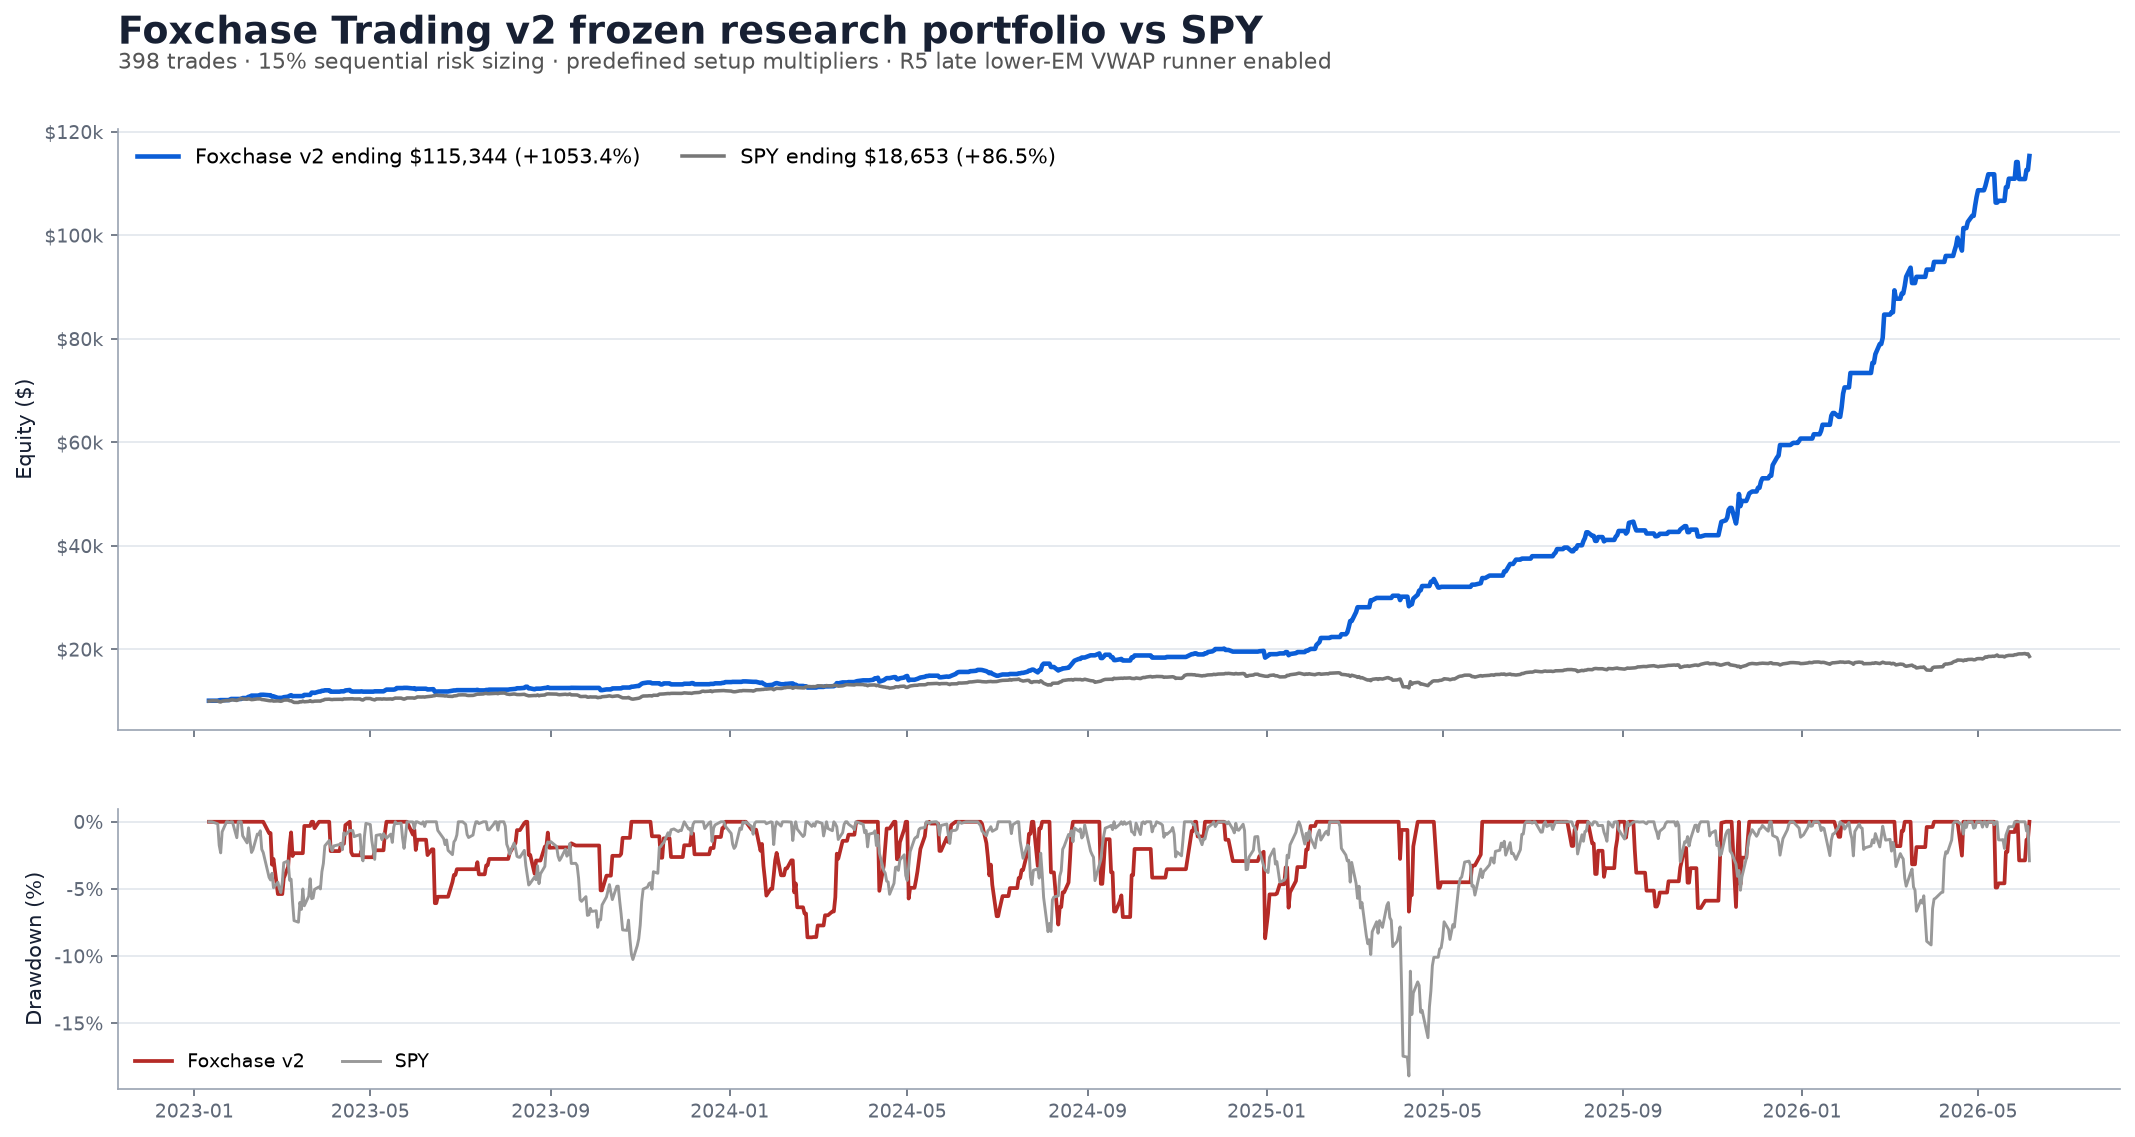
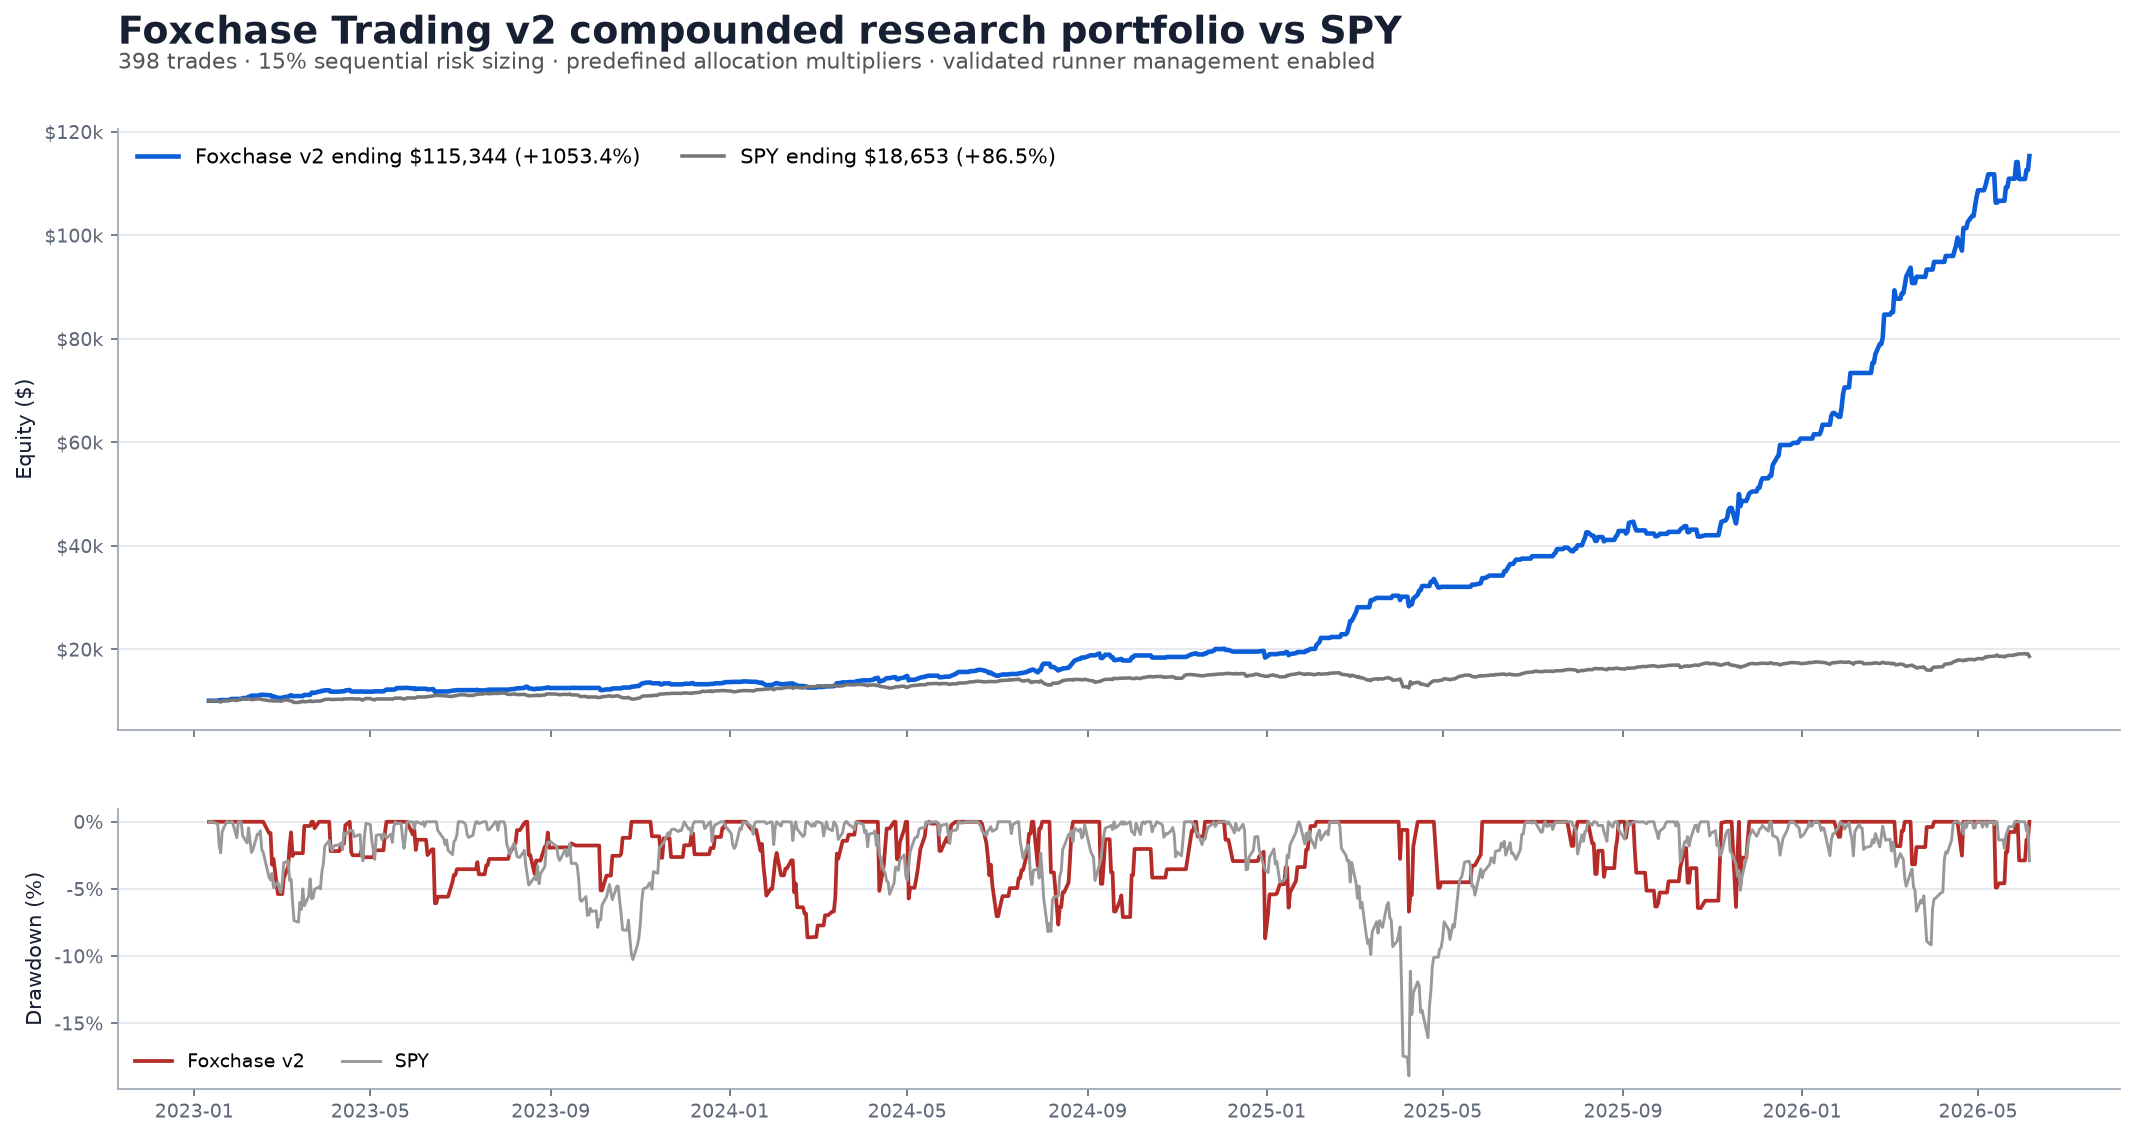
Restore research sizing toggle and simplify labels

Changed region(s): [[0.2473, 0.0, 0.6492, 0.0616]]

diff --git a/algo-pnl.html b/algo-pnl.html
@@ -589,16 +589,17 @@ function setTextIfExists(id, value) {
 
 
     <h2>Research Backtest</h2>
-    <div class="pnl-note"><strong>Foxchase v2 forward-validation baseline:</strong> The production ruleset is frozen at 398 historical trades. Under the validated 15% sequential sizing framework, the frozen portfolio produced hypothetical P&amp;L of +$105,344, CAGR of 105.38%, Sharpe ratio of 5.502, and maximum drawdown of -8.68%. These are research results, not live performance. Forward validation will measure unchanged rules against real signals, fills, slippage, and operational conditions.</div>
-    <div class="pnl-note"><strong>Research backtest, not live performance:</strong> This frozen v2 historical replay uses only information available at each decision time, $3-wide defined-risk spreads, one open position at a time, predefined scheduled macro-event exclusions, the validated 15% sequential target-risk framework, and predefined setup-specific sizing. Most setups use natural historical bid/ask execution; the R1 SPX/SPY expected-move-divergence sleeve uses synchronized Alpaca one-minute option trade-bar estimates with separate slippage stress testing because full historical bid/ask quotes were unavailable. Results are hypothetical and remain separate from the live-account performance shown above.</div>
-    <div class="pnl-note"><strong>Current R5 runner rule:</strong> The existing R5 late lower-EM bull-put entry is unchanged. Before 60% profit, its existing stop and management apply. Reaching 60% activates a runner; the runner exits on the first confirmed five-minute close below cumulative RTH VWAP, or under the existing EOD handling if no VWAP failure occurs. If valid five-minute/VWAP data is unavailable, the strategy reverts to existing R5 management and records a VWAP fallback. This is exit management, not a separate setup.</div>
-    <div class="pnl-note"><strong>Strategy status:</strong> Foxchase v2 is frozen for forward validation. Entries, filters, position sizing, stops, and thresholds will remain unchanged during this validation period. Historical trade records retain their original outcomes; the current research replay applies the forward ruleset to the same frozen signal membership. Any future research version must be documented separately and must not silently alter this baseline. Past and hypothetical performance do not guarantee future results. <strong>Last updated August 22, 2026.</strong></div>
-    <div class="research-metrics"><div class="research-card"><div class="research-label">Frozen v2 Sample</div><div class="research-value">398 trades</div></div><div class="research-card"><div class="research-label">Research P&amp;L</div><div class="research-value">+$105,344</div></div><div class="research-card"><div class="research-label">Ending Equity</div><div class="research-value">$115,344</div></div><div class="research-card"><div class="research-label">CAGR</div><div class="research-value">105.38%</div></div><div class="research-card"><div class="research-label">Sharpe Ratio</div><div class="research-value">5.502</div></div><div class="research-card"><div class="research-label">Max Drawdown</div><div class="research-value">-8.68%</div></div><div class="research-card"><div class="research-label">Win Rate</div><div class="research-value">77.89%</div></div><div class="research-card"><div class="research-label">Average Trade</div><div class="research-value">$264.68</div></div><div class="research-card"><div class="research-label">Risk Framework</div><div class="research-value">15% sequential</div></div><div class="research-card"><div class="research-label">R5 Exit</div><div class="research-value">VWAP runner</div></div></div>
+    <div class="pnl-note"><strong>Research backtest, not live performance:</strong> Results are hypothetical and do not reflect the live account over the full test period. Past performance does not guarantee future results. <strong>Last updated August 22, 2026.</strong></div>
+    <div class="research-metrics"><div class="research-card"><div class="research-label">Frozen v2 Sample</div><div class="research-value">398 trades</div></div><div class="research-card"><div class="research-label">Research P&amp;L</div><div class="research-value">+$105,344</div></div><div class="research-card"><div class="research-label">Ending Equity</div><div class="research-value">$115,344</div></div><div class="research-card"><div class="research-label">CAGR</div><div class="research-value">105.38%</div></div><div class="research-card"><div class="research-label">Sharpe Ratio</div><div class="research-value">5.502</div></div><div class="research-card"><div class="research-label">Max Drawdown</div><div class="research-value">-8.68%</div></div><div class="research-card"><div class="research-label">Win Rate</div><div class="research-value">77.89%</div></div><div class="research-card"><div class="research-label">Average Trade</div><div class="research-value">$264.68</div></div><div class="research-card"><div class="research-label">Risk Framework</div><div class="research-value">15% sequential</div></div><div class="research-card"><div class="research-label">Exit Management</div><div class="research-value">Runner enabled</div></div></div>
+    <div style="display:flex;gap:8px;flex-wrap:wrap;margin:18px 0 0;" role="group" aria-label="Research chart sizing">
+      <button type="button" id="fixedSizingButton" class="btn btn-outline-dark btn-sm" onclick="showResearchSizing('fixed')">Fixed risk · Non-compounding</button>
+      <button type="button" id="compoundedSizingButton" class="btn btn-dark btn-sm" onclick="showResearchSizing('compounded')">15% · Compounded</button>
+    </div>
     <div class="chart-box research-chart-box"><img id="researchSizingChart" src="/images/foxchase_v2_frozen_15pct_vs_spy.png?v=20260822-v2-frozen-15pct-axis3" alt="Foxchase Trading v2 frozen 15 percent research portfolio versus SPY buy and hold"></div>
-    <p class="small" id="researchSizingNote"><strong>Sizing note:</strong> This graph uses the frozen v2 portfolio’s validated 15% sequential risk framework and predefined setup-specific multipliers. The R5 late lower-EM VWAP runner is enabled. This hypothetical research curve is separate from the live account performance shown above.</p>
+    <p class="small" id="researchSizingNote"><strong>Sizing note:</strong> This graph uses the frozen v2 portfolio’s validated 15% sequential compounded risk framework and predefined allocation multipliers. Validated runner management is enabled. This hypothetical research curve is separate from the live account performance shown above.</p>
     <p class="small">Test window: January 4, 2023 through June 5, 2026, using the same dates for the SPY benchmark. Setup labels are intentionally anonymized.</p>
     <h3 style="margin-top:30px;">Rolling and Sequence-Risk Validation</h3>
-    <p class="small">Rolling results below use the current 15% live-risk assumption and predefined setup-specific sizing. Across the pre-2026 portion, the strategy returned 415.68% versus 72.58% for aligned SPY price performance while retaining a lower historical drawdown.</p>
+    <p class="small">Rolling results below use the current 15% live-risk assumption and predefined allocation multipliers. Across the pre-2026 portion, the strategy returned 415.68% versus 72.58% for aligned SPY price performance while retaining a lower historical drawdown.</p>
     <div class="research-table-wrap"><table class="research-table"><thead><tr><th>Rolling Window</th><th>Windows</th><th>Profitable</th><th>Worst Return</th><th>Worst Drawdown</th></tr></thead><tbody><tr><td>30 trades</td><td>369</td><td>94.31%</td><td>-5.76%</td><td>-9.30%</td></tr><tr><td>60 trades</td><td>339</td><td>99.71%</td><td>-0.11%</td><td>-9.31%</td></tr><tr><td>90 trades</td><td>309</td><td>100.00%</td><td>1.83%</td><td>-9.32%</td></tr><tr><td>3 months</td><td>42</td><td>92.86%</td><td>-4.39%</td><td>-9.21%</td></tr><tr><td>6 months</td><td>42</td><td>97.62%</td><td>-0.62%</td><td>-9.21%</td></tr><tr><td>12 months</td><td>42</td><td>100.00%</td><td>4.28%</td><td>-9.22%</td></tr></tbody></table></div>
     <p class="small"><strong>Sequence-risk test:</strong> 10,000 simulations resampled complete trading weeks so clustered winning and losing periods remained together. The severe estimate is the 95th percentile, meaning only 5% of simulated paths were worse. Simulated drawdowns are scenario estimates, not forecasts or guarantees.</p>
     <div class="research-table-wrap"><table class="research-table"><thead><tr><th>Sizing</th><th>Observed Return</th><th>Historical Max Drawdown</th><th>Typical Simulated Drawdown</th><th>Severe Simulated Drawdown</th></tr></thead><tbody><tr><td>10% compounded</td><td>347.40%</td><td>-6.25%</td><td>-7.97%</td><td>-12.12%</td></tr><tr><td>15% compounded</td><td>883.26%</td><td>-9.35%</td><td>-12.22%</td><td>-18.47%</td></tr><tr><td>20% compounded</td><td>2025.35%</td><td>-12.39%</td><td>-16.18%</td><td>-24.09%</td></tr></tbody></table></div>
@@ -606,6 +607,23 @@ function setTextIfExists(id, value) {
   </div>
 
   <script>
+    function showResearchSizing(mode) {
+      const chart = document.getElementById("researchSizingChart");
+      const note = document.getElementById("researchSizingNote");
+      const fixed = document.getElementById("fixedSizingButton");
+      const compounded = document.getElementById("compoundedSizingButton");
+      if (!chart || !note || !fixed || !compounded) return;
+      const isCompounded = mode === "compounded";
+      chart.src = isCompounded
+        ? "/images/foxchase_v2_frozen_15pct_vs_spy.png?v=20260822-v2-sizing-toggle"
+        : "/images/foxchase_v2_fixed_risk_vs_spy.png?v=20260822-v2-sizing-toggle";
+      note.innerHTML = isCompounded
+        ? "<strong>Sizing note:</strong> This graph uses the frozen v2 portfolio’s validated 15% sequential compounded risk framework and predefined allocation multipliers. Validated runner management is enabled. This hypothetical research curve is separate from the live account performance shown above."
+        : "<strong>Sizing note:</strong> This comparison holds risk budgets fixed rather than increasing them as equity grows. It uses the same frozen signals, allocation multipliers, and validated exit management. Headline research metrics above correspond to the compounded view.";
+      fixed.className = isCompounded ? "btn btn-outline-dark btn-sm" : "btn btn-dark btn-sm";
+      compounded.className = isCompounded ? "btn btn-dark btn-sm" : "btn btn-outline-dark btn-sm";
+    }
+
     function dollars(value) {
       return Number(value).toLocaleString("en-US", { style: "currency", currency: "USD" });
     }
